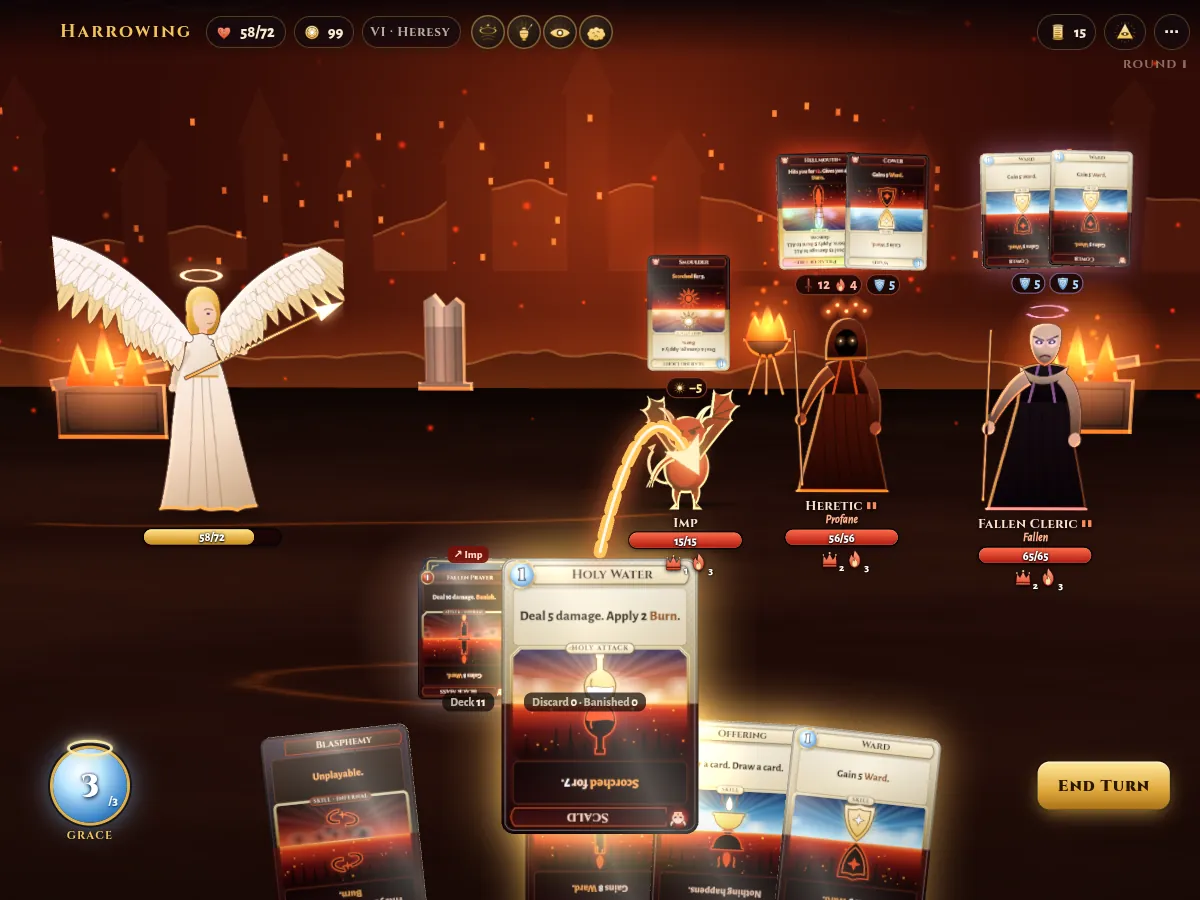
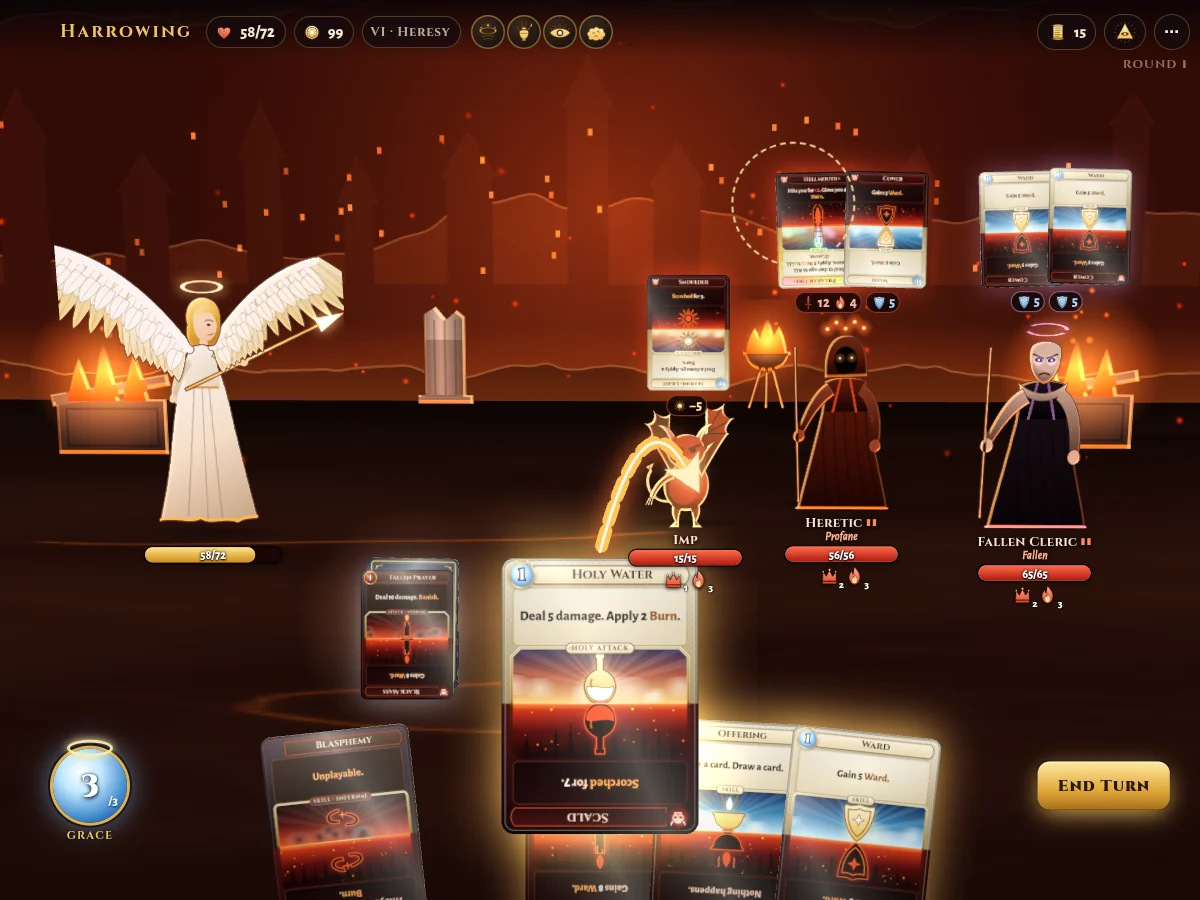
Harrowing: piles sit in the gap between angel and demons, boss headroom, demo params
Claude-Session: https://claude.ai/code/session_01Uqfyz3ri1pKL5wpXBvoWNh

diff --git a/harrowing/battleview.js b/harrowing/battleview.js
@@ -59,7 +59,17 @@ export class BattleView {
       m.grace = { x: Math.max(44, W * .13), y: py }; m.end = { x: W - 62, y: py };
       m.play = { x: W * .5, y: H * .42 }; m.playW = m.cardW * 1.55;
     } else {
-      m.deck = { x: W * .39, y: H * .695 }; m.disc = { x: W * .39 + m.pileW * 1.3, y: H * .695 };
+      // the shared deck sits in the gap between you and the demons
+      let gx = W * .39 + m.pileW * .65;
+      const af = this.figs.get(this.b.angel), ds = this.b.living().map(d => this.figs.get(d)).filter(Boolean);
+      if (af && ds.length) {
+        const a = this.stage.project(af.feet(this.tmp)), at = this.stage.project(af.top(new THREE.Vector3()));
+        const right = a.x + (a.y - at.y) * .3;
+        const left = Math.min(...ds.map(f => { const p = this.stage.project(f.feet(new THREE.Vector3())), t = this.stage.project(f.top(new THREE.Vector3())); return p.x - (p.y - t.y) * .32; }));
+        gx = clamp((right + left) / 2, W * .3, W * .6);
+        if (left - right < m.pileW * 2.8) gx = clamp(Math.max(gx, right + m.pileW * 1.6), W * .3, W * .62);
+      }
+      m.deck = { x: gx - m.pileW * .65, y: H * .695 }; m.disc = { x: gx + m.pileW * .65, y: H * .695 };
       m.grace = { x: Math.max(70, W * .075), y: H - m.cardH * .55 }; m.end = { x: W - Math.max(90, W * .08), y: H - m.cardH * .55 };
       m.play = { x: W * .5, y: H * .42 }; m.playW = m.cardW * 1.5;
     }
@@ -405,7 +415,7 @@ export class BattleView {
       } else if (this.aim) { this.aim.x = x; this.aim.y = y; if (y > m.handTop + 20) { this.drag = { view: this.aim.view }; this.aim = null; } }
       return;
     }
-    if (type === 'move' && this.aim) { this.aim.x = x; this.aim.y = y; return; }
+    if (type === 'move' && this.aim) { this.aim.x = x; this.aim.y = y; this.aim.moved = true; return; }
     if (type === 'up') {
       const p = this.press; this.press = null;
       if (this.aim) {
@@ -502,6 +512,15 @@ export class BattleView {
   }
   updateAim() {
     const a = this.aim, svg = this.arrow;
+    // aiming by tap: no arrow yet, every demon glows and waits to be tapped
+    if (a && this.inputOn && a.fromTap && !a.moved && a.keyTarget == null) {
+      svg.classList.remove('on'); this.reticle.classList.remove('on');
+      const pulse = .35 + .3 * Math.sin(this.stage.time * 5);
+      for (const [who, f] of this.figs) if (who !== this.b.angel) f.hi = who.alive ? pulse : 0;
+      if (this.promptEl.hidden || !this.promptEl._aim) { this.showPrompt(`Tap a demon${this.b.living().length > 1 ? ' (or the card it holds)' : ''} to play <em>${def(a.view.card).title}</em> on it.`); this.promptEl._aim = true; }
+      return;
+    }
+    if (this.promptEl._aim) { this.promptEl._aim = false; if (!this.choosing) this.hidePrompt(); }
     if (!a || !this.inputOn) { svg.classList.remove('on'); this.reticle.classList.remove('on'); this.aimHeld = null; if (!this.hoveredDemon) for (const [who, f] of this.figs) if (who !== this.b.angel) f.hi = 0; return; }
     const v = a.view, s = this.layer.toScreen(v.p);
     const sx = s.x, sy = s.y - v.s * RATIO * .5;
@@ -717,7 +736,12 @@ export class BattleView {
       case 'grace': this.setGrace(d.value, d.gained); break;
       case 'next': break;
       case 'discard': {
-        const v = this.viewOf(d.card, d.from === 'deck' ? 'deck' : 'deck');
+        let v = this.views.get(d.card.uid);
+        if (!v && (d.from === 'belly' || d.from === 'hoard') && d.demon && this.figs.get(d.demon)) {
+          const p = S.project(this.figs.get(d.demon).center(new THREE.Vector3()));
+          v = this.spawn(d.card, L.at(p.x, p.y, 60), false);
+        }
+        v ??= this.viewOf(d.card, 'deck');
         const top = L.at(m.disc.x, m.disc.y, 20);
         const r = Math.sin(d.card.uid * 12.9) * .2;
         const dur = d.from === 'hand' ? .32 : .38;

diff --git a/harrowing/stage.js b/harrowing/stage.js
@@ -409,7 +409,15 @@ export class Stage {
     if (this.angel) { this.angel.home = solo ? new THREE.Vector3(0, 0, 0) : new THREE.Vector3(tall ? -2.4 - (ds.length > 2 ? .4 : 0) : -4.6 - Math.max(0, rowW - 9) * .3, 0, tall ? 1.4 : .6); if (!this.angel.placed) { this.angel.root.position.copy(this.angel.home); this.angel.placed = true; } }
     // frame them: the whole group plus room above for the held cards
     const left = solo ? -4 : (this.angel?.home.x ?? 0) - 2.3, right = solo ? 4 : Math.max(left + 6, ...ds.map(d => d.home.x + d.width * .55)) + .4;
-    const top = maxH + (tall ? 2.4 : 1.9), bottom = -.3;
+    // room above the tallest head for the cards the demons hold, which are a fixed size on screen
+    const fovR = this.camera.fov * Math.PI / 180, regionH = (this.view.battleBottom - this.view.battleTop) * h;
+    const cardPx = (tall ? Math.min(64, Math.max(40, w * .115)) : Math.min(92, Math.max(56, h * .09))) * 1.4 + 70;
+    let top = maxH + 1.6, bottom = -.3;
+    for (let k = 0; k < 2; k++) {
+      const span = top - bottom, D0 = Math.max((right - left) / 2 / (Math.tan(fovR / 2) * aspect * .94), span / 2 / (Math.tan(fovR / 2) * (regionH / h) * .94), 9);
+      const pxPerUnit = h / (2 * D0 * Math.tan(fovR / 2));
+      top = maxH + cardPx / pxPerUnit;
+    }
     const cx = (left + right) / 2, cy = (top + bottom) / 2;
     for (const p of this.props ?? []) {
       const x = (p.anchor === 'L' ? left : p.anchor === 'R' ? right : cx) + p.dx;

diff --git a/harrowing/main.js b/harrowing/main.js
@@ -299,7 +299,8 @@ class App {
     if (q.has('circle')) { const c = +q.get('circle'); run.act = Math.floor(c / 3); run.pos = { row: (c % 3) * 3, col: 3 }; }
     run.hp = 58;
     this.updateTop();
-    const enc = { enemies: (q.get('enemies') ?? 'imp,heretic,cleric').split(','), kind: 'fight' };
+    const enc = { enemies: (q.get('enemies') ?? 'imp,heretic,cleric').split(','), kind: q.get('kind') ?? 'fight' };
+    if (q.has('hp')) run.hp = +q.get('hp');
     this.startFight(enc);
   }
 }
